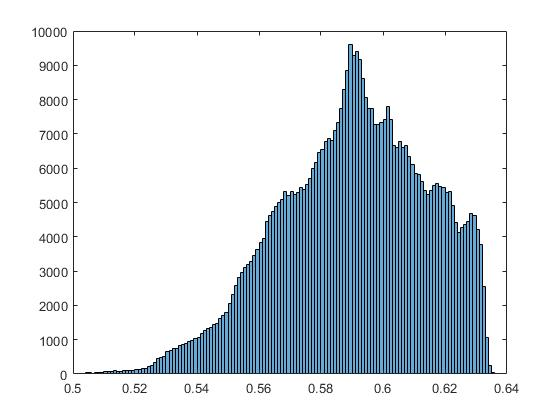
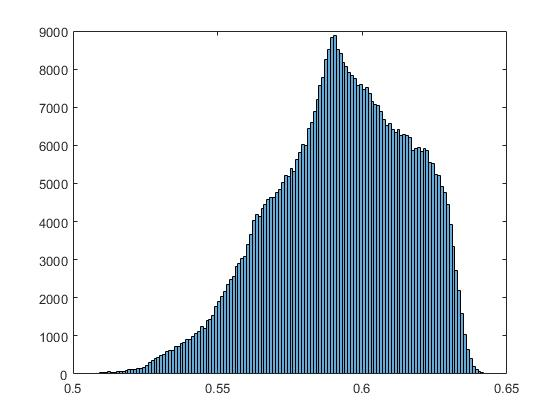
...

diff --git a/aLSH.m b/aLSH.m
@@ -1,4 +1,4 @@
-function g = aLSH(SNPs, c)
+function [h0, h1] = aLSH(SNPs)
 
 [d, n] = size(SNPs);
 m = 3;
@@ -9,7 +9,7 @@ N = 100;
 nSNPs = scaling(SNPs, U, n);
 qs = zeros(d + 2 * m, n);
 for i = 1:n
-    qs(:,i) = getQ(SNPs(:,i), m ,d);
+    qs(:,i) = getQ(nSNPs(:,i), m ,d);
 end
 ps = zeros(d + 2 * m, n);
 for i = 1:n
